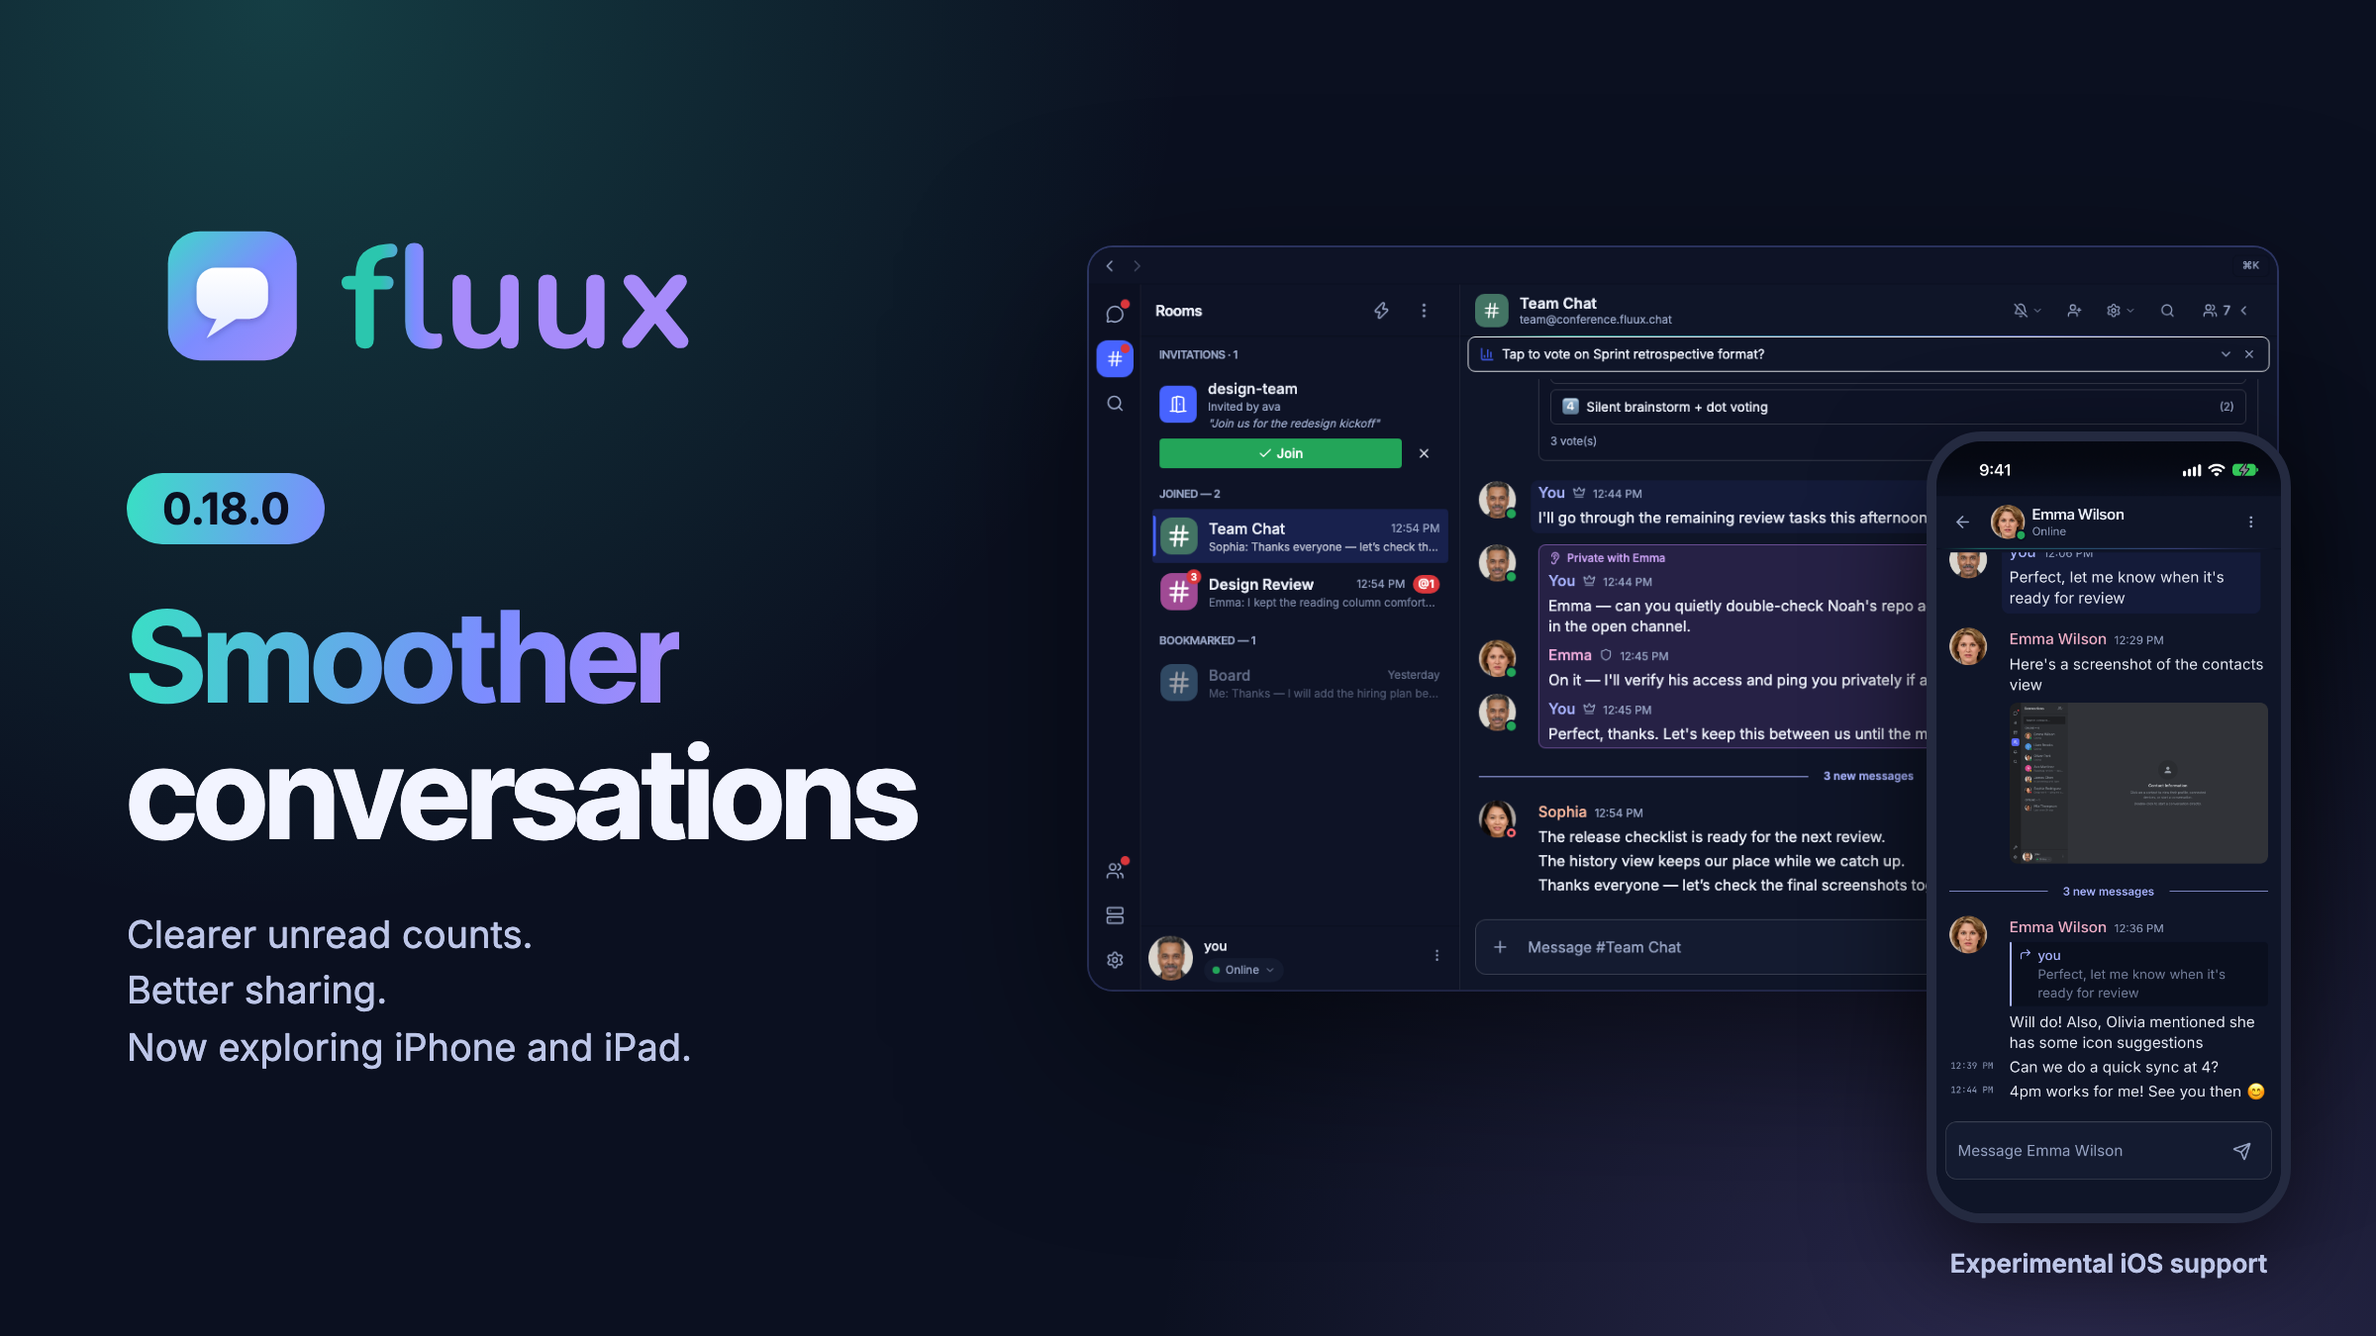
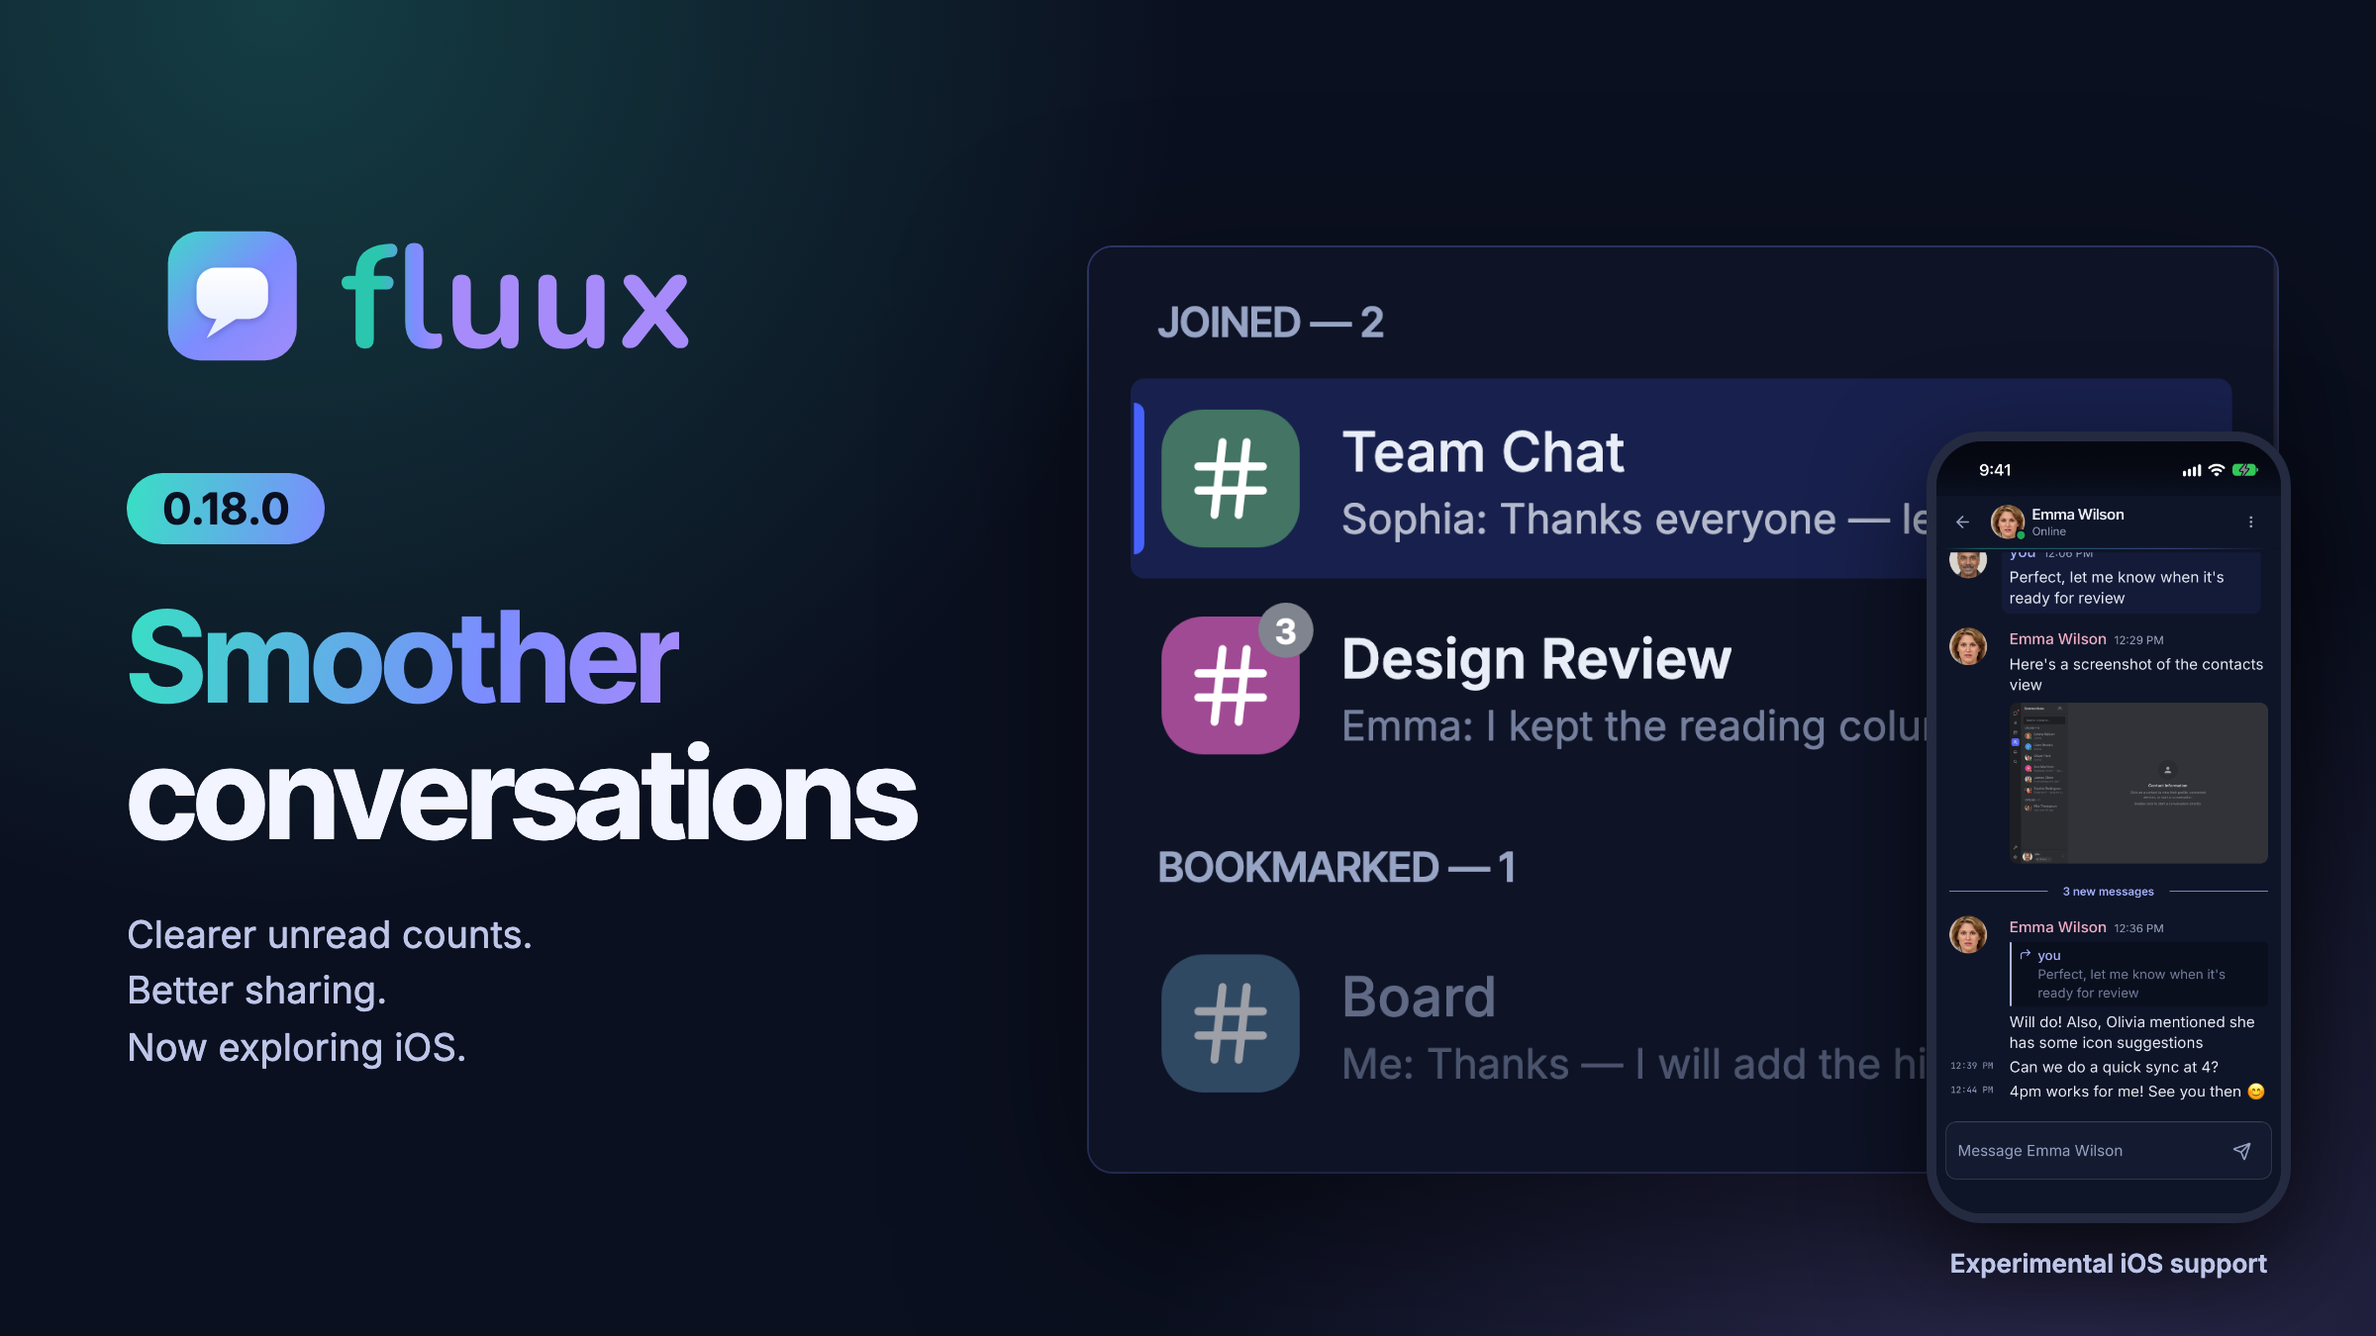
fix(media): clarify 0.18.0 unread screenshot and iOS hero
## Intent
Make the new joined-room avatar unread count clear in the 0.18.0 release media, without relying on the pre-existing @ mention badge. Avoid implying iPad testing in the unpublished blog or its thumbnail.

## What changed
- Stage Design Review with three unread messages and no mentions, and assert the unread badge and numbered message divider before capture.
- Apply the approved closer room-list crop at 4× resolution so its avatar count stays sharp in the hero. Regenerate only the unread image and its hero copy.
- Change the hero text to “Now exploring iOS.” Remove iPad from the unpublished blog intro, section heading and media placement, and align image descriptions.
- Preserve released changelogs, native iPhone images and the demo reel.

## Verified
- `npm ci` and `npm run build:sdk` passed.
- `npm test` passed: 10,333 SDK tests and 8,880 application tests, with 20 existing application skips. This includes `npm run test:tauri-features` and `npm run test:platform-policy`.
- `npm run typecheck` and `npm run build` passed.
- `npm run test:e2e -- --workers=1` passed all 517 Chromium/WebKit journeys without retries.
- After the approved framing update, reran the dedicated capture with `npm run screenshots -- --workers=1 --grep '33 —'`, rendered the hero with `node scripts/blog-hero/render.mjs 0.18.0`, and passed `npm run typecheck:scripts`, `npm run test:tauri-features`, `npm run test:platform-policy` and `git diff --check`.
[…]

Changed region(s): [[0.4375, 0.2178, 0.9375, 0.5911], [0.4688, 0.5911, 0.8125, 0.84], [0.1562, 0.7778, 0.2812, 0.8089]]

diff --git a/e2e/screenshots.ts b/e2e/screenshots.ts
@@ -78,11 +78,11 @@ async function selectItem(page: Page, name: string) {
 }
 
 /** Take a screenshot and save to the output directory. */
-async function capture(page: Page, filename: string) {
+async function capture(page: Page, filename: string, clip?: { x: number; y: number; width: number; height: number }) {
   await clearHover(page)
   await page.waitForTimeout(300)
   await waitForFloatingDateToFade(page)
-  await page.screenshot({ path: `${OUTPUT_DIR}/${filename}.png`, type: 'png' })
+  await page.screenshot({ path: `${OUTPUT_DIR}/${filename}.png`, type: 'png', clip })
 }
 
 /**
@@ -556,50 +556,56 @@ test('32 — Unread badge + new-message divider (dark)', async ({ page }) => {
   await capture(page, '32-read-state-dark')
 })
 
-// Release 0.18.0 blog: room unread/mention badges beside the new-message divider.
-test('33 — Release 0.18.0 room read state (dark)', async ({ page }) => {
-  await waitForDemoReady(page)
-  await page.evaluate(() => {
-    const client = (window as any).__demoClient
-    const conversations = [
-      { roomJid: 'design@conference.fluux.chat', nick: 'Emma', bodies: [
-        'The updated desktop screenshots are ready to review.',
-        'you: could you check the mobile layout too?',
-        'I kept the reading column comfortable on wide windows.',
-      ] },
-      { roomJid: 'team@conference.fluux.chat', nick: 'Sophia', bodies: [
-        'The release checklist is ready for the next review.',
-        'The history view keeps our place while we catch up.',
-        'Thanks everyone — let’s check the final screenshots together.',
-      ] },
-    ]
-    client.startAnimation(conversations.flatMap(({ roomJid, nick, bodies }, room) =>
-      bodies.map((body, index) => ({
-        delayMs: 0, action: 'room-message', data: {
-          roomJid, incrementUnread: true, incrementMentions: room === 0 && index === 1,
-          message: {
-            type: 'groupchat', id: `release-018-${room}-${index}`,
-            stanzaId: `sid-release-018-${room}-${index}`, from: `${roomJid}/${nick}`,
-            nick, body, timestamp: new Date(Date.now() + index), isOutgoing: false, roomJid,
+// Captain's 0.18.0 correction: show the new room-avatar unread count without an @ mention badge.
+test.describe('Release 0.18.0 media', () => {
+  // Keep the approved crop crisp when enlarged in the 2× blog hero.
+  test.use({ deviceScaleFactor: 4 })
+
+  test('33 — Release 0.18.0 room read state (dark)', async ({ page }) => {
+    await waitForDemoReady(page)
+    await page.evaluate(() => {
+      const client = (window as any).__demoClient
+      const conversations = [
+        { roomJid: 'design@conference.fluux.chat', nick: 'Emma', bodies: [
+          'The updated desktop screenshots are ready to review.',
+          'Could you check the mobile layout too?',
+          'I kept the reading column comfortable on wide windows.',
+        ] },
+        { roomJid: 'team@conference.fluux.chat', nick: 'Sophia', bodies: [
+          'The release checklist is ready for the next review.',
+          'The history view keeps our place while we catch up.',
+          'Thanks everyone — let’s check the final screenshots together.',
+        ] },
+      ]
+      client.startAnimation(conversations.flatMap(({ roomJid, nick, bodies }, room) =>
+        bodies.map((body, index) => ({
+          delayMs: 0, action: 'room-message', data: {
+            roomJid, incrementUnread: true, incrementMentions: false,
+            message: {
+              type: 'groupchat', id: `release-018-${room}-${index}`,
+              stanzaId: `sid-release-018-${room}-${index}`, from: `${roomJid}/${nick}`,
+              nick, body, timestamp: new Date(Date.now() + index), isOutgoing: false, roomJid,
+            },
           },
-        },
-      }))))
+        }))))
+    })
+    await navigateTo(page, 'rooms')
+    // Widen the real sidebar so room names remain readable beside the avatar count.
+    const divider = await page.locator('[role="separator"]').first().boundingBox()
+    if (!divider) throw new Error('Sidebar resize handle is missing')
+    await page.mouse.move(divider.x + divider.width / 2, divider.y + divider.height / 2)
+    await page.mouse.down()
+    await page.mouse.move(divider.x + 140, divider.y + divider.height / 2, { steps: 10 })
+    await page.mouse.up()
+    const design = page.locator('[data-room-jid="design@conference.fluux.chat"]')
+    await selectItem(page, 'Team Chat')
+    await expect(design.getByLabel('3 unread messages')).toBeVisible()
+    await expect(design.getByLabel(/^Mentions:/)).toHaveCount(0)
+    await expect(page.locator('[data-new-message-marker]')).toHaveText('3 new messages')
+    await expect(page.getByText('Thanks everyone — let’s check the final screenshots together.', { exact: true })).toBeVisible()
+    // Approved closer crop: keep the joined-room avatar count readable in the hero.
+    await capture(page, 'release-0.18.0-desktop-unread', { x: 56, y: 244, width: 344, height: 268 })
   })
-  await navigateTo(page, 'rooms')
-  // Widen the real sidebar so room names remain readable beside both badges.
-  const divider = await page.locator('[role="separator"]').first().boundingBox()
-  if (!divider) throw new Error('Sidebar resize handle is missing')
-  await page.mouse.move(divider.x + divider.width / 2, divider.y + divider.height / 2)
-  await page.mouse.down()
-  await page.mouse.move(divider.x + 140, divider.y + divider.height / 2, { steps: 10 })
-  await page.mouse.up()
-  const design = page.locator('[data-room-jid="design@conference.fluux.chat"]')
-  await expect(design.getByLabel('3 unread messages')).toBeVisible()
-  await expect(design.getByLabel('Mentions: 1')).toBeVisible()
-  await selectItem(page, 'Team Chat')
-  await expect(page.locator('[data-new-message-marker]')).toBeVisible()
-  await expect(page.getByText('Thanks everyone — let’s check the final screenshots together.', { exact: true })).toBeVisible()
-  await capture(page, 'release-0.18.0-desktop-unread')
 })
 
 // ── Glass Theme-Variant Scenes ─────────────────────────────────────

diff --git a/scripts/blog-hero/blog-hero-0.18.0.html b/scripts/blog-hero/blog-hero-0.18.0.html
@@ -36,9 +36,9 @@
     <img class="logo" src="../../assets/readme/fluux-logo.svg" alt="Fluux">
     <div class="version">0.18.0</div>
     <h1><span>Smoother</span><br>conversations</h1>
-    <p class="summary">Clearer unread counts.<br>Better sharing.<br>Now exploring iPhone and iPad.</p>
+    <p class="summary">Clearer unread counts.<br>Better sharing.<br>Now exploring iOS.</p>
   </div>
-  <img class="desktop" src="../../screenshots/release-0.18.0-desktop-unread.png" alt="Desktop room list and conversation with new messages">
+  <img class="desktop" src="../../screenshots/release-0.18.0-desktop-unread.png" alt="Desktop room list cropped to show the unread count on Design Review's avatar">
   <div class="phone"><img src="../../screenshots/release-0.18.0-ios-chat.png" alt="Fluux running natively on iPhone"></div>
   <div class="ios-label">Experimental iOS support</div>
 </main>

diff --git a/docs/blog/fluux-messenger-0.18.0-media.md b/docs/blog/fluux-messenger-0.18.0-media.md
@@ -8,8 +8,8 @@ date remains unconfirmed; adding these assets does not publish the post.
 | Asset | File | Placement / dimensions |
 | --- | --- | --- |
 | Blog thumbnail | `screenshots/blog-hero-0.18.0.png` | Blog opening; 2400×1350, intended to display at 1200×675. Aurora branding, 0.18.0, desktop and native iPhone, with an experimental iOS label. |
-| Desktop room read state | `screenshots/release-0.18.0-desktop-unread.png` | Under **Clearer unread counts**; 1280×800. Design Review shows unread 3 and a separate @1 mention badge; Team Chat shows its three-message divider. |
-| Native iPhone conversation | `screenshots/release-0.18.0-ios-chat.png` | Under **Experimental iPhone and iPad support**; 1206×2622. Emma's conversation with an attachment, reply and unread divider. |
+| Desktop room read state | `screenshots/release-0.18.0-desktop-unread.png` | Under **Clearer unread counts**; 1376×1072 room-list crop, captured at 4× for a crisp 344×268 logical region. Design Review shows unread 3 on its avatar without an @ mention badge. |
+| Native iPhone conversation | `screenshots/release-0.18.0-ios-chat.png` | Under **Experimental iOS support for iPhone**; 1206×2622. Emma's conversation with an attachment, reply and unread divider. |
 | Native iPhone list | `screenshots/release-0.18.0-ios-list.png` | Companion screenshot in the visual overview; 1206×2622, avatars and unread badges. |
 | Desktop gallery | Existing PNGs generated by `e2e/screenshots.ts` | 60 refreshed compositions at 1280×800, retaining their existing names, themes, density and language variants. Old release hero images are unchanged. |
 | Updated demo reel | `assets/readme/fluux-demo.mp4` | 129.37 seconds, 1920×1080 at 30 fps, silent H.264/yuv420p, limited-range BT.709, fast-start metadata; 2,841,802 bytes. |
@@ -22,9 +22,11 @@ separately uploaded video. The gallery links all three new screenshots.
 All contacts, conversations, attachments and encryption identities are the
 project's existing isolated demo data. The dedicated desktop scene injects
 sample messages through `DemoClient`, then opens the room through the UI. It
-asserts the unread badge, mention badge, divider and final message before
-capturing. Its sidebar is widened through the actual resize handle so names
-remain readable beside the badges.
+asserts the unread avatar badge, absence of a mention badge, numbered divider
+and final message before capturing. Its sidebar is widened through the actual
+resize handle so names remain readable beside the avatar count. The approved
+closer crop keeps the joined rooms and bookmarked Board room, omitting the open
+conversation so the new avatar count is easier to see in the blog and hero.
 
 The iPhone images come from this checkout's unsigned **Fluux iOS Demo**
 (`net.processone.fluux.demo`) on an iPhone 17 Pro simulator running iOS 27.0,

diff --git a/docs/blog/fluux-messenger-0.18.0.md b/docs/blog/fluux-messenger-0.18.0.md
@@ -4,7 +4,7 @@ Publication date: [To confirm]
 
 ![Fluux Messenger 0.18.0: smoother conversations, desktop room read state and experimental native iPhone support](../../screenshots/blog-hero-0.18.0.png)
 
-Fluux Messenger 0.18.0 focuses on the parts of messaging you rely on every day: opening a long conversation, catching up after a disconnect, and knowing what remains unread. It also makes sharing easier on macOS and introduces experimental native support for iPhone and iPad.
+Fluux Messenger 0.18.0 focuses on the parts of messaging you rely on every day: opening a long conversation, catching up after a disconnect, and knowing what remains unread. It also makes sharing easier on macOS and introduces experimental native iOS support for iPhone.
 
 If you are discovering Fluux, it is an open-source XMPP client for teams, communities, and anyone who wants control over their communications. This release keeps the focus on making those conversations easier to follow.
 
@@ -24,7 +24,7 @@ The “New messages” divider now counts the messages actually below it, rather
 
 Messages from ignored room members no longer add to unread or mention badges. Messages you send from another device under a different room nickname are recognised as yours, without an extra notification or unread count.
 
-![Desktop room list with separate unread and mention badges beside Team Chat's new-message divider](../../screenshots/release-0.18.0-desktop-unread.png)
+![Desktop room list cropped to show Design Review's unread count on its avatar without an @ mention badge](../../screenshots/release-0.18.0-desktop-unread.png)
 
 ## Better sharing, with the context you need
 
@@ -34,7 +34,7 @@ Whispers to a room member can now include attachments. Before you send, Fluux ex
 
 Desktop file handling also gets a practical fix: attaching or opening files with non-Latin names works again.
 
-## Experimental iPhone and iPad support
+## Experimental iOS support for iPhone
 
 Version 0.18.0 introduces experimental native iOS support, with push notifications, system sharing, native file transfers, and OpenPGP encryption.
 

diff --git a/screenshots/OVERVIEW.md b/screenshots/OVERVIEW.md
@@ -8,7 +8,7 @@ All screenshots are generated automatically from the [demo mode](../docs/DEMO_MO
 
 | Desktop room read state | Native iPhone conversation | Native iPhone list |
 | --- | --- | --- |
-| <a href="./release-0.18.0-desktop-unread.png"><img src="./release-0.18.0-desktop-unread.png" width="400" alt="Room unread and mention badges beside a new-message divider"/></a> | <a href="./release-0.18.0-ios-chat.png"><img src="./release-0.18.0-ios-chat.png" width="180" alt="Native iPhone conversation with an attachment, reply and unread divider"/></a> | <a href="./release-0.18.0-ios-list.png"><img src="./release-0.18.0-ios-list.png" width="180" alt="Native iPhone conversation list with avatars and unread badges"/></a> |
+| <a href="./release-0.18.0-desktop-unread.png"><img src="./release-0.18.0-desktop-unread.png" width="400" alt="Desktop room-list crop showing an unread count on Design Review's avatar without mentions"/></a> | <a href="./release-0.18.0-ios-chat.png"><img src="./release-0.18.0-ios-chat.png" width="180" alt="Native iPhone conversation with an attachment, reply and unread divider"/></a> | <a href="./release-0.18.0-ios-list.png"><img src="./release-0.18.0-ios-list.png" width="180" alt="Native iPhone conversation list with avatars and unread badges"/></a> |
 
 The iPhone images come from the unsigned isolated native demo in iOS Simulator,
 not a mobile browser. iOS support is experimental. See the
